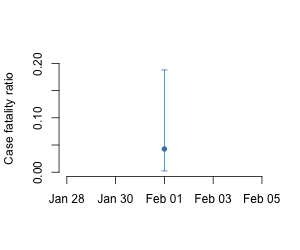
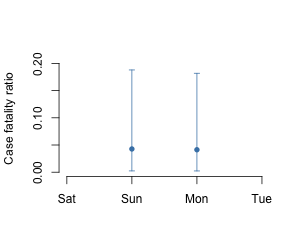
Updated with WHO Situation Report 14

diff --git a/README.md b/README.md
@@ -1,10 +1,10 @@
 # Estimating case fatality ratio of 2019-nCoV from observed cases outside China
 
-*Date of report: 2 February 2020*
+*Date of report: 3 February 2020*
 
 Christian L. Althaus (christian.althaus@ispm.unibe.ch), Institute of Social and Preventive Medicine, University of Bern, Bern, Switzerland
 
-**Summary: We provide a preliminary estimate of the case fatality ratio (CFR) of 2019-nCoV at 4.3% (95% confidence interval: 0.2%-18.8%). While there remains considerable uncertainty around this estimate (n = 1!), CFR is arguably higher than what is typically observed for seasonal influenza, but lower than what was observed for SARS-CoV or MERS-CoV.**
+**Summary: We provide a preliminary estimate of the case fatality ratio (CFR) of 2019-nCoV at 4.1% (95% confidence interval: 0.2%-18.2%). While there remains considerable uncertainty around this estimate (n = 1!), CFR is arguably higher than what is typically observed for seasonal influenza, but lower than what was observed for SARS-CoV or MERS-CoV.**
 
 While the basic reproduction number of the 2019-nCoV epidemic in China [has been estimated](https://github.com/jriou/wcov) at 2.2 (90% high density interval: 1.4-3.8) (1,2), there remains considerable uncertainty regarding the case fatality ratio (CFR). To date, naive estimates of CFR from the reported numbers of confirmed cases and deaths are difficult to interpret due to possible biases in observed cases and the right-censoring of cases with respect to the time delay from illness onset to death (3).
 
@@ -12,7 +12,7 @@ We argue that reported 2019-nCoV cases and deaths outside China are less prone t
 
 ![](figures/ncov_cases.png)
 
-**Figure 1. Reported 2019-nCoV cases outside China by onset of symptoms and time of death.** The WHO [Novel Coronavirus(2019-nCoV) Situation Report - 13](https://www.who.int/docs/default-source/coronaviruse/situation-reports/20200202-sitrep-13-ncov-v3.pdf?sfvrsn=195f4010_2) reports onset of symptoms for 76 cases (out of a total of 146 cases). The first death outside China has been reported by WHO, [ECDC](https://www.ecdc.europa.eu/en/novel-coronavirus-china) and [international media](https://www.theguardian.com/global-development/2020/feb/02/coronavirus-deaths-hong-kong-health-workers-to-strike-china-border-).
+**Figure 1. Reported 2019-nCoV cases outside China by onset of symptoms and time of death.** The WHO [Novel Coronavirus(2019-nCoV) Situation Report - 14](https://www.who.int/emergencies/diseases/novel-coronavirus-2019/situation-reports) reports onset of symptoms for 88 cases (out of a total of 153 cases). The first death outside China has been reported by WHO, [ECDC](https://www.ecdc.europa.eu/en/novel-coronavirus-china) and [international media](https://www.theguardian.com/global-development/2020/feb/02/coronavirus-deaths-hong-kong-health-workers-to-strike-china-border-).
 
 First, we collect 2019-nCoV cases and deaths outside China from [WHO](https://www.who.int/emergencies/diseases/novel-coronavirus-2019/situation-reports/), [ECDC](https://www.ecdc.europa.eu/en/novel-coronavirus-china) and [international media](https://www.theguardian.com/global-development/2020/feb/02/coronavirus-deaths-hong-kong-health-workers-to-strike-china-border-) (Figure 1). We then model the expected incidence of death due 2019-nCoV given a CFR. To this end, we assume that the time from onset to death follows a gamma distribution with a mean of 15.3 days and a shape parameter of 5.05 (Figure 2) (4). Finally, we use maximum-likelihood estimation to fit the model to the data assuming the observed numbers of deaths are Poisson distributed (see `R` code file [`ncov_cfr.R`](ncov_cfr.R)).
 
@@ -20,7 +20,7 @@ First, we collect 2019-nCoV cases and deaths outside China from [WHO](https://ww
 
 **Figure 2. Probability distribution of time from onset of 2019-nCoV symptoms to death.** The distribution is based on the estimates by Linton et al. (3).
 
-We estimate the CFR of 2019-nCoV at 4.3% (95% confidence interval: 0.2%-18.8%). Due to observation of only one death outside China, the uncertainty around this estimate remains wide. We expect future estimates to become more precise with higher numbers of cases and deaths outside China (Figure 3). Furthermore, the estimate could represent an upper bound because information on date of onset is not available for all reported cases and asymptoamtic cases are not included. It is also important to note that the fatal case in Manila was [co-infected with *Streptococcus pneumoniae* and *influenza B virus*](https://twitter.com/joel_mossong/status/1223989493176459266?s=20).
+We estimate the CFR of 2019-nCoV at 4.1% (95% confidence interval: 0.2%-18.2%). Due to observation of only one death outside China, the uncertainty around this estimate remains wide. We expect future estimates to become more precise with higher numbers of cases and deaths outside China (Figure 3). Furthermore, the estimate could represent an upper bound because information on date of onset is not available for all reported cases and asymptoamtic cases are not included. It is also important to note that the fatal case in Manila was [co-infected with *Streptococcus pneumoniae* and *influenza B virus*](https://twitter.com/joel_mossong/status/1223989493176459266?s=20).
 
 ![](figures/ncov_cfr.png)
 
